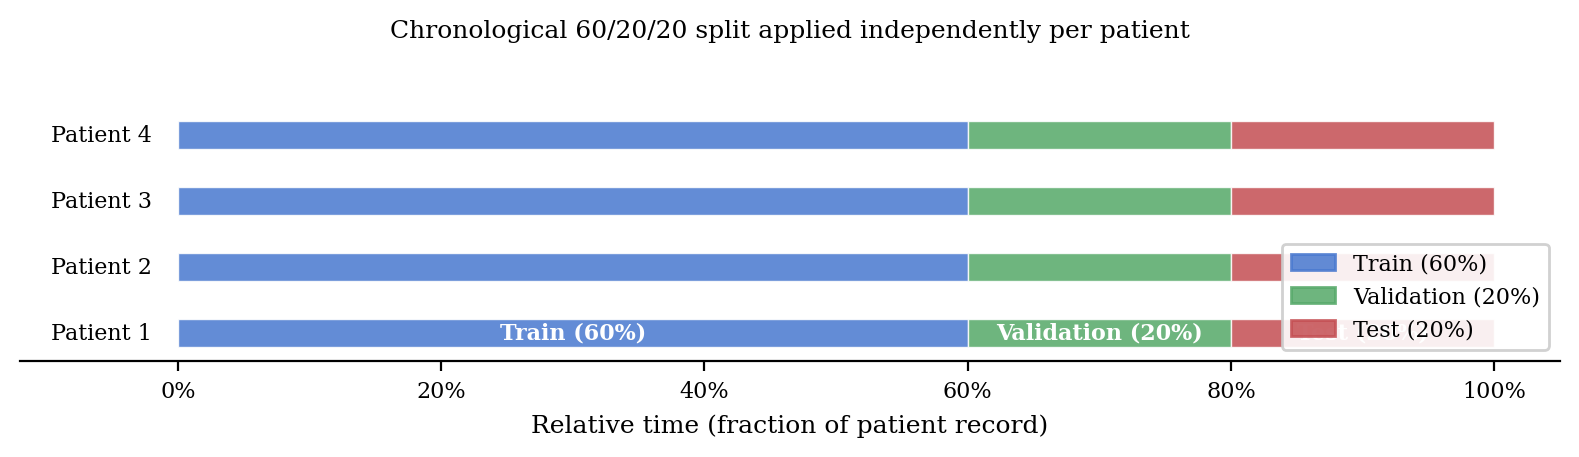
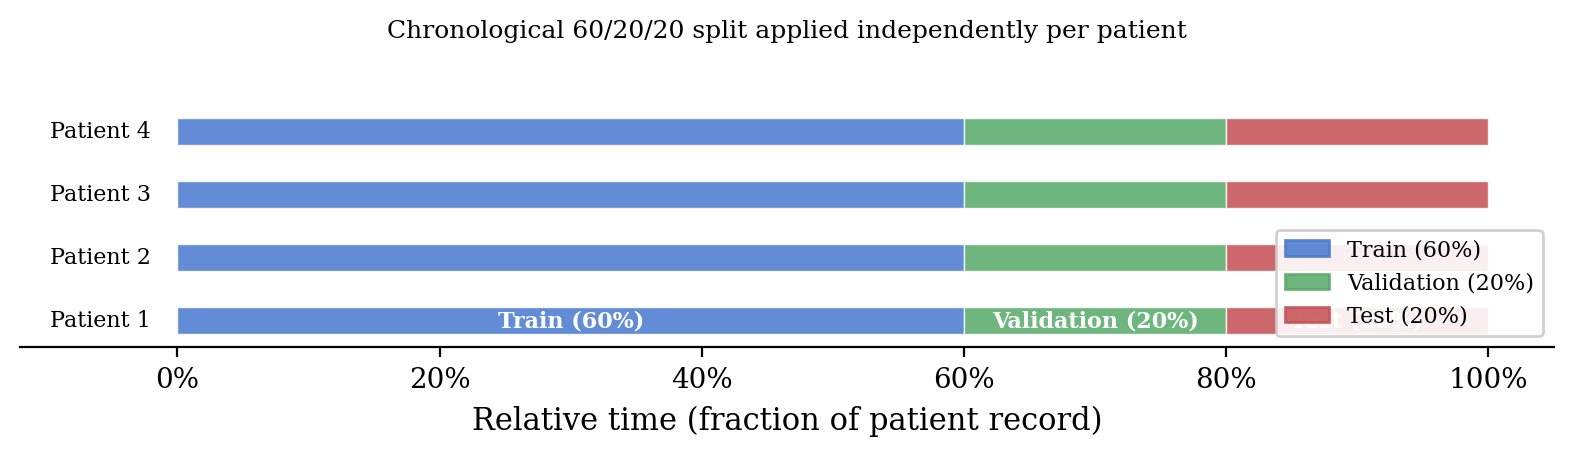
Figure 3.1: drop per-patient x-ticks, enlarge labels
Remove the uninformative, cramped 1-36 patient numbers from the x-axis of the
class-imbalance figure and describe the axis with a label instead ("each bar
one patient, sorted by positive rate"). Raise the base font sizes so the
titles, axis labels, tick numbers and count annotations are comfortably
readable in print. Display size unchanged; 36 pages preserved.

diff --git a/scripts/generate_extra_figures.py b/scripts/generate_extra_figures.py
@@ -16,12 +16,12 @@ OUT_DIR = "thesis/img"
 
 plt.rcParams.update({
     "font.family": "serif",
-    "font.size": 10,
-    "axes.titlesize": 10,
-    "axes.labelsize": 9,
-    "xtick.labelsize": 8,
-    "ytick.labelsize": 8,
-    "legend.fontsize": 8,
+    "font.size": 11,
+    "axes.titlesize": 12,
+    "axes.labelsize": 11,
+    "xtick.labelsize": 10,
+    "ytick.labelsize": 10,
+    "legend.fontsize": 10,
     "figure.dpi": 150,
     "axes.spines.top": False,
     "axes.spines.right": False,
@@ -72,17 +72,18 @@ def make_class_imbalance():
     axes[0].bar(x, pos_s, color="#C44E52", alpha=0.8, label="Positive (hypo event)")
     axes[0].bar(x, 100 - pos_s, bottom=pos_s, color="#4878CF", alpha=0.5,
                 label="Negative (no hypo event)")
-    axes[0].set_xticks(x)
-    axes[0].set_xticklabels([str(i + 1) for i in range(len(pids_sorted))], rotation=90, fontsize=7)
+    # Each bar is one of the 36 patients; the individual indices carry no
+    # information, so the axis is described by its label instead of per-bar ticks.
+    axes[0].set_xticks([])
+    axes[0].set_xlim(-0.7, len(pids_sorted) - 0.3)
     axes[0].set_ylabel("Percentage of windows (%)")
-    axes[0].set_xlabel("Patient (sorted by positive rate)")
+    axes[0].set_xlabel("Patients (each bar one patient, sorted by positive rate)")
     axes[0].set_ylim(0, 100)
-    axes[0].legend(loc="upper left")
     axes[0].set_title("Class distribution per patient")
     axes[0].axhline(pos_counts.sum() / total.sum() * 100,
                      color="black", linewidth=1.0, linestyle="--",
                      label=f"Cohort mean: {pos_counts.sum()/total.sum()*100:.1f}%")
-    axes[0].legend(loc="upper left", fontsize=7.5)
+    axes[0].legend(loc="upper left")
 
     # Right panel: cohort aggregate
     total_pos = pos_counts.sum()
@@ -92,10 +93,10 @@ def make_class_imbalance():
     axes[1].set_ylabel("Number of windows")
     axes[1].set_title("Cohort aggregate")
     for i, (label, val) in enumerate(zip(["Negative", "Positive"], [total_neg, total_pos])):
-        axes[1].text(i, val + 200, f"{val:,}", ha="center", va="bottom", fontsize=8)
+        axes[1].text(i, val + 200, f"{val:,}", ha="center", va="bottom", fontsize=10)
 
     fig.suptitle("Class imbalance in the T1DATA hypoglycaemia detection task",
-                 y=1.02, fontsize=9)
+                 y=1.02, fontsize=12)
     fig.tight_layout()
     fig.savefig(f"{OUT_DIR}/class_imbalance.png", dpi=200, bbox_inches="tight")
     plt.close(fig)